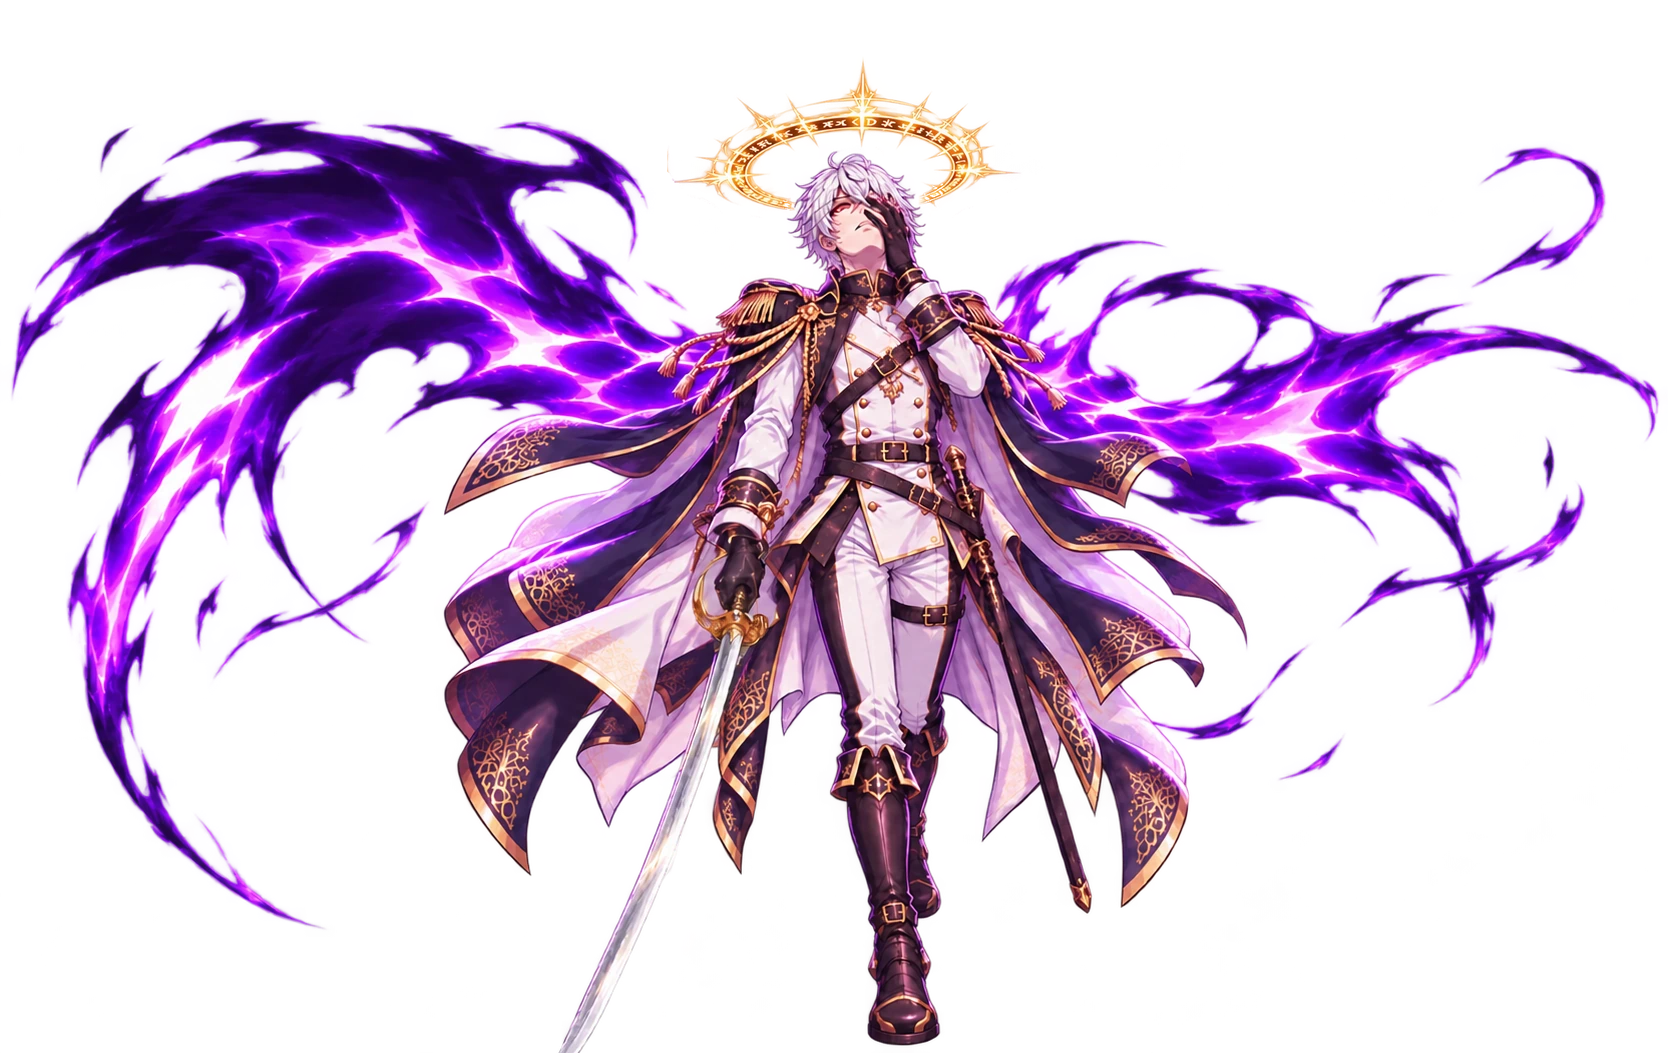
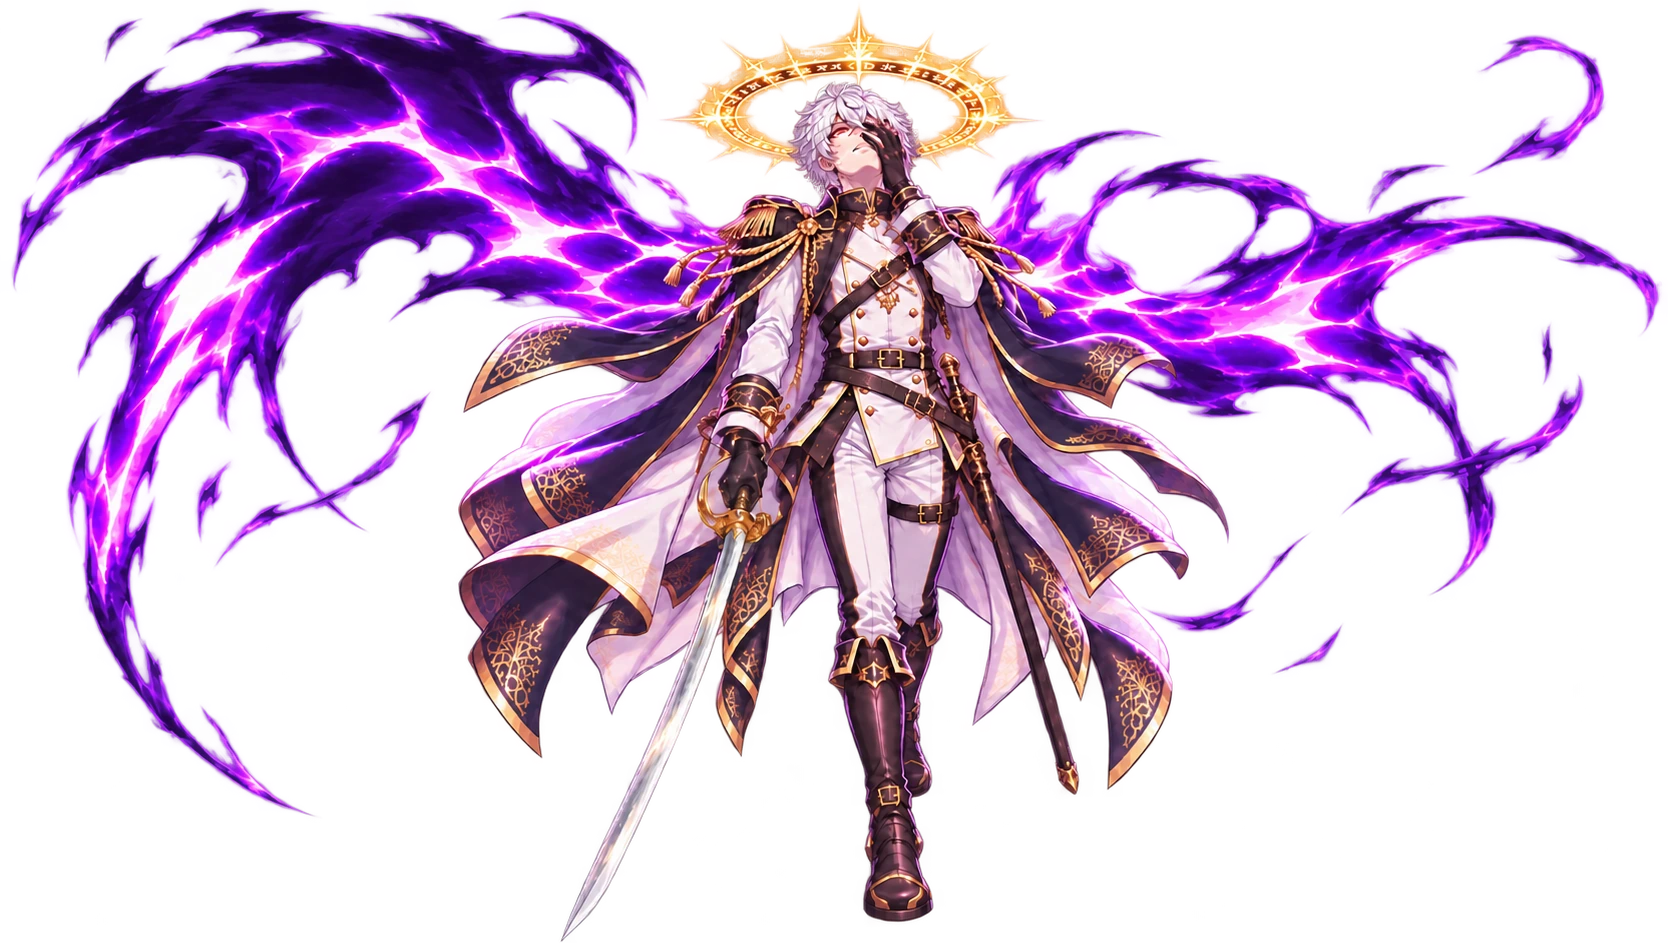
ver -2382 米夏 暴走：法環改由 GPT 加在 Ray 的 SD 版上（取代本機合成）

diff --git a/index.html b/index.html
@@ -16,7 +16,7 @@
 <link rel="apple-touch-icon" href="resources/background/tivot_emblem.png?v=9220f8bb">
 <title>TIVOT</title>
 <!-- 全域鎖直向（真鎖 + 橫向擋板）；classic script，需在版面就緒前掛上 -->
-<script src="orientation.js?v=2381"></script>
+<script src="orientation.js?v=2382"></script>
 <!-- 離線包（ver -2256）：註冊 sw.js；主畫面 App 裡出現「下載離線包」鈕 -->
 <script src="offline.js"></script>
 <!-- ══ 效能探針・計數層（ver -850，Ray：「沒有辦法寫一個偵測程式進去看是什麼
@@ -65,74 +65,74 @@
 <script type="importmap">
 {
   "imports": {
-    "./audio.js": "./audio.js?v=2381",
-    "./config.js": "./config.js?v=2381",
-    "./i18n.js": "./i18n.js?v=2381",
-    "./main.js": "./main.js?v=2381",
-    "./offline.js": "./offline.js?v=2381",
-    "./orientation.js": "./orientation.js?v=2381",
-    "./state.js": "./state.js?v=2381",
-    "./sw.js": "./sw.js?v=2381",
-    "./telemetry.js": "./telemetry.js?v=2381",
-    "./modules/beatpick.js": "./modules/beatpick.js?v=2381",
-    "./modules/blink.js": "./modules/blink.js?v=2381",
-    "./modules/breath.js": "./modules/breath.js?v=2381",
-    "./modules/combat.js": "./modules/combat.js?v=2381",
-    "./modules/defense.js": "./modules/defense.js?v=2381",
-    "./modules/enemy.js": "./modules/enemy.js?v=2381",
-    "./modules/eyefx.js": "./modules/eyefx.js?v=2381",
-    "./modules/gear.js": "./modules/gear.js?v=2381",
-    "./modules/groundShadow.js": "./modules/groundShadow.js?v=2381",
-    "./modules/haptics.js": "./modules/haptics.js?v=2381",
-    "./modules/inn.js": "./modules/inn.js?v=2381",
-    "./modules/inspector.js": "./modules/inspector.js?v=2381",
-    "./modules/loot.js": "./modules/loot.js?v=2381",
-    "./modules/partner.js": "./modules/partner.js?v=2381",
-    "./modules/saint.js": "./modules/saint.js?v=2381",
-    "./modules/sakura.js": "./modules/sakura.js?v=2381",
-    "./modules/save.js": "./modules/save.js?v=2381",
-    "./modules/settings.js": "./modules/settings.js?v=2381",
-    "./modules/story.js": "./modules/story.js?v=2381",
-    "./modules/sway.js": "./modules/sway.js?v=2381",
-    "./modules/tone.js": "./modules/tone.js?v=2381",
-    "./modules/town.js": "./modules/town.js?v=2381",
-    "./modules/transition.js": "./modules/transition.js?v=2381",
-    "./modules/tutorial.js": "./modules/tutorial.js?v=2381",
-    "./modules/weapon.js": "./modules/weapon.js?v=2381",
-    "./script/bg_index.js": "./script/bg_index.js?v=2381",
-    "./script/blink.js": "./script/blink.js?v=2381",
-    "./script/clock.js": "./script/clock.js?v=2381",
-    "./script/enemies.js": "./script/enemies.js?v=2381",
-    "./script/evaluation.js": "./script/evaluation.js?v=2381",
-    "./script/eyefx.js": "./script/eyefx.js?v=2381",
-    "./script/inventory.js": "./script/inventory.js?v=2381",
-    "./script/loadout.js": "./script/loadout.js?v=2381",
-    "./script/mainScript.js": "./script/mainScript.js?v=2381",
-    "./script/progress.js": "./script/progress.js?v=2381",
-    "./script/shopcards.js": "./script/shopcards.js?v=2381",
-    "./script/shopstock.js": "./script/shopstock.js?v=2381",
-    "./script/speakers.js": "./script/speakers.js?v=2381",
-    "./script/sway.js": "./script/sway.js?v=2381",
-    "./script/town.js": "./script/town.js?v=2381",
-    "./script/weapons.js": "./script/weapons.js?v=2381",
-    "./i18n/en.js": "./i18n/en.js?v=2381",
-    "./i18n/es.js": "./i18n/es.js?v=2381",
-    "./i18n/ja.js": "./i18n/ja.js?v=2381",
-    "./i18n/scriptTr.js": "./i18n/scriptTr.js?v=2381",
-    "./i18n/zh.js": "./i18n/zh.js?v=2381",
-    "./i18n/script/es.classic.js": "./i18n/script/es.classic.js?v=2381",
-    "./i18n/script/es.js": "./i18n/script/es.js?v=2381",
-    "./i18n/ui/es.classic.js": "./i18n/ui/es.classic.js?v=2381",
-    "./i18n/ui/es.js": "./i18n/ui/es.js?v=2381"
+    "./audio.js": "./audio.js?v=2382",
+    "./config.js": "./config.js?v=2382",
+    "./i18n.js": "./i18n.js?v=2382",
+    "./main.js": "./main.js?v=2382",
+    "./offline.js": "./offline.js?v=2382",
+    "./orientation.js": "./orientation.js?v=2382",
+    "./state.js": "./state.js?v=2382",
+    "./sw.js": "./sw.js?v=2382",
+    "./telemetry.js": "./telemetry.js?v=2382",
+    "./modules/beatpick.js": "./modules/beatpick.js?v=2382",
+    "./modules/blink.js": "./modules/blink.js?v=2382",
+    "./modules/breath.js": "./modules/breath.js?v=2382",
+    "./modules/combat.js": "./modules/combat.js?v=2382",
+    "./modules/defense.js": "./modules/defense.js?v=2382",
+    "./modules/enemy.js": "./modules/enemy.js?v=2382",
+    "./modules/eyefx.js": "./modules/eyefx.js?v=2382",
+    "./modules/gear.js": "./modules/gear.js?v=2382",
+    "./modules/groundShadow.js": "./modules/groundShadow.js?v=2382",
+    "./modules/haptics.js": "./modules/haptics.js?v=2382",
+    "./modules/inn.js": "./modules/inn.js?v=2382",
+    "./modules/inspector.js": "./modules/inspector.js?v=2382",
+    "./modules/loot.js": "./modules/loot.js?v=2382",
+    "./modules/partner.js": "./modules/partner.js?v=2382",
+    "./modules/saint.js": "./modules/saint.js?v=2382",
+    "./modules/sakura.js": "./modules/sakura.js?v=2382",
+    "./modules/save.js": "./modules/save.js?v=2382",
+    "./modules/settings.js": "./modules/settings.js?v=2382",
+    "./modules/story.js": "./modules/story.js?v=2382",
+    "./modules/sway.js": "./modules/sway.js?v=2382",
+    "./modules/tone.js": "./modules/tone.js?v=2382",
+    "./modules/town.js": "./modules/town.js?v=2382",
+    "./modules/transition.js": "./modules/transition.js?v=2382",
+    "./modules/tutorial.js": "./modules/tutorial.js?v=2382",
+    "./modules/weapon.js": "./modules/weapon.js?v=2382",
+    "./script/bg_index.js": "./script/bg_index.js?v=2382",
+    "./script/blink.js": "./script/blink.js?v=2382",
+    "./script/clock.js": "./script/clock.js?v=2382",
+    "./script/enemies.js": "./script/enemies.js?v=2382",
+    "./script/evaluation.js": "./script/evaluation.js?v=2382",
+    "./script/eyefx.js": "./script/eyefx.js?v=2382",
+    "./script/inventory.js": "./script/inventory.js?v=2382",
+    "./script/loadout.js": "./script/loadout.js?v=2382",
+    "./script/mainScript.js": "./script/mainScript.js?v=2382",
+    "./script/progress.js": "./script/progress.js?v=2382",
+    "./script/shopcards.js": "./script/shopcards.js?v=2382",
+    "./script/shopstock.js": "./script/shopstock.js?v=2382",
+    "./script/speakers.js": "./script/speakers.js?v=2382",
+    "./script/sway.js": "./script/sway.js?v=2382",
+    "./script/town.js": "./script/town.js?v=2382",
+    "./script/weapons.js": "./script/weapons.js?v=2382",
+    "./i18n/en.js": "./i18n/en.js?v=2382",
+    "./i18n/es.js": "./i18n/es.js?v=2382",
+    "./i18n/ja.js": "./i18n/ja.js?v=2382",
+    "./i18n/scriptTr.js": "./i18n/scriptTr.js?v=2382",
+    "./i18n/zh.js": "./i18n/zh.js?v=2382",
+    "./i18n/script/es.classic.js": "./i18n/script/es.classic.js?v=2382",
+    "./i18n/script/es.js": "./i18n/script/es.js?v=2382",
+    "./i18n/ui/es.classic.js": "./i18n/ui/es.classic.js?v=2382",
+    "./i18n/ui/es.js": "./i18n/ui/es.js?v=2382"
   }
 }
 </script>
 <!-- BUST:END -->
-<link rel="stylesheet" href="style.css?v=2381">
+<link rel="stylesheet" href="style.css?v=2382">
   <!-- 拾得道具／道具欄／商店／懸賞榜（ver -380 抽出，飛行頁共用同一份）。
        ⚠ `data-lootsheet` 是給 `modules/loot.js` 認的：它看到已經掛過就不再掛一次。
          飛行頁沒有這一行，由那支模組自己掛上去。 -->
-  <link rel="stylesheet" href="css/lootsheet.css?v=2381" data-lootsheet="1">
+  <link rel="stylesheet" href="css/lootsheet.css?v=2382" data-lootsheet="1">
 <!-- 主畫面 App（standalone）偵測：首繪前在 <html> 蓋 .standalone，
      供 CSS 修 iOS 26 版面視窗少算頂部安全區高度（底部露黑帶）的問題 -->
 <script>
@@ -778,6 +778,6 @@
      ⚠ src 是**按下去才給**的（lazy）：不然每次開機都要多載一整個飛行頁。 -->
 <iframe id="flightFrame" title="飛行"></iframe>
 
-<script type="module" src="main.js?v=2381"></script>
+<script type="module" src="main.js?v=2382"></script>
 </body>
 </html>

diff --git a/flight/index.html b/flight/index.html
@@ -3,7 +3,7 @@
 <head>
 <meta charset="utf-8">
 <meta name="viewport" content="width=device-width,initial-scale=1,maximum-scale=1,user-scalable=no,viewport-fit=cover">
-<script src="../orientation.js?v=2381"></script>
+<script src="../orientation.js?v=2382"></script>
 <script>
 /* 介面字譯文（ver -1909）：這一頁是非模組，程式一開跑就讀字串 —— 所以譯文表要**同步**載
    （document.write，只在選了有譯文的語言時）。語言判定與 i18n.js 的 LANG 同一套
@@ -11,7 +11,7 @@
 (function(){
   var l=null; try{ l=localStorage.getItem('tivot.lang'); }catch(e){}
   if(!l){ try{ var n=(navigator.languages&&navigator.languages[0])||navigator.language||''; if(String(n).toLowerCase().indexOf('es')===0) l='es'; }catch(e){} }
-  if(['es'].indexOf(l)>=0) document.write('<script src="../i18n/script/'+l+'.classic.js?v=2381"><\/script><script src="../i18n/ui/'+l+'.classic.js?v=2381"><\/script>');
+  if(['es'].indexOf(l)>=0) document.write('<script src="../i18n/script/'+l+'.classic.js?v=2382"><\/script><script src="../i18n/ui/'+l+'.classic.js?v=2382"><\/script>');
 })();
 function i18nT(s){ var t=window.__TIVOT_TR; return (t && typeof s==='string' && t[s]!=null) ? t[s] : s; }
 document.addEventListener('DOMContentLoaded', function(){
@@ -237,7 +237,7 @@ document.addEventListener('DOMContentLoaded', function(){
   /* ver -2217：門圖含楣（kerberos_gate，＝主遊戲同一張）—— 底圖往上延伸到楣的上緣（--fk-gate-top，負值，layoutFKerb 寫）。
      畫在 ::before：門的子元素（紋章／箭／鉚釘）排在它之後，自然疊在上面。 */
   #fkerbDoor::before{content:'';position:absolute;left:0;right:0;top:var(--fk-gate-top,0px);bottom:0;
-    background-image:url('../resources/vfx/kerberos_gate.webp?v=2381');
+    background-image:url('../resources/vfx/kerberos_gate.webp?v=2382');
     background-repeat:no-repeat;background-size:100% 100%;pointer-events:none;}
   #fkerb.rise #fkerbDoor{transform:translateY(calc(var(--fkerb-rise,0px) * -1));}
   /* 楣與其餘零件：全部是門的子元素＝同一剛體，門上推它們跟著上去
@@ -260,8 +260,8 @@ document.addEventListener('DOMContentLoaded', function(){
       radial-gradient(circle at 50% 22%, rgba(0,0,0,.72) 40%, rgba(0,0,0,0) 78%);
     box-shadow:inset 0 3px 7px rgba(0,0,0,.85);}
   #fkerbGear .fkg-shine{position:absolute;inset:0;mix-blend-mode:screen;opacity:.8;
-    -webkit-mask-image:url("../resources/vfx/kerberos_gear.webp?v=2381");
-    mask-image:url("../resources/vfx/kerberos_gear.webp?v=2381");
+    -webkit-mask-image:url("../resources/vfx/kerberos_gear.webp?v=2382");
+    mask-image:url("../resources/vfx/kerberos_gear.webp?v=2382");
     -webkit-mask-size:100% 100%;mask-size:100% 100%;
     -webkit-mask-repeat:no-repeat;mask-repeat:no-repeat;
     background:linear-gradient(114deg,
@@ -281,8 +281,8 @@ document.addEventListener('DOMContentLoaded', function(){
     filter:drop-shadow(0 3px 7px rgba(0,0,0,.9)) drop-shadow(0 0 2px rgba(0,0,0,.8));}
   #fkerbPend .fkp-shine{position:absolute;inset:0;pointer-events:none;
     mix-blend-mode:screen;opacity:.85;
-    -webkit-mask-image:url("../resources/vfx/kerberos_pendant.webp?v=2381");
-    mask-image:url("../resources/vfx/kerberos_pendant.webp?v=2381");
+    -webkit-mask-image:url("../resources/vfx/kerberos_pendant.webp?v=2382");
+    mask-image:url("../resources/vfx/kerberos_pendant.webp?v=2382");
     -webkit-mask-size:100% 100%;mask-size:100% 100%;
     -webkit-mask-repeat:no-repeat;mask-repeat:no-repeat;
     background:linear-gradient(114deg,
@@ -647,23 +647,23 @@ img:not([src]), img[src=""], img.img-broken{visibility:hidden !important;}
        ⚠ 要有，否則交棒那一格齒輪會憑空冒出來（同吊墜的理由）。
        ⚠ 排在 `.fk-plate` 之前 ＝ 團徽之下、槍棺之上。 -->
   <div id="fkerbGear"><i class="fkg-well"></i>
-    <img src="../resources/vfx/kerberos_gear.webp?v=2381" alt=""><i class="fkg-shine"></i></div>
+    <img src="../resources/vfx/kerberos_gear.webp?v=2382" alt=""><i class="fkg-shine"></i></div>
   <div id="fkerbGearSm"><i class="fkg-well"></i>
-    <img src="../resources/vfx/kerberos_gear.webp?v=2381" alt=""></div>
-  <img class="fk-plate" src="../resources/vfx/kerberos_plate.webp?v=2381" alt="">
-  <img class="fk-arrow n" src="../resources/vfx/kerberos_arrow.webp?v=2381" alt="">
-  <img class="fk-arrow e" src="../resources/vfx/kerberos_arrow.webp?v=2381" alt="">
-  <img class="fk-arrow s" src="../resources/vfx/kerberos_arrow.webp?v=2381" alt="">
-  <img class="fk-arrow w" src="../resources/vfx/kerberos_arrow.webp?v=2381" alt="">
-  <img class="fk-rivet r10" src="../resources/vfx/kerberos_rivet.webp?v=2381" alt="">
-  <img class="fk-rivet r2"  src="../resources/vfx/kerberos_rivet.webp?v=2381" alt="">
-  <img class="fk-rivet r4"  src="../resources/vfx/kerberos_rivet.webp?v=2381" alt="">
-  <img class="fk-rivet r8"  src="../resources/vfx/kerberos_rivet.webp?v=2381" alt="">
+    <img src="../resources/vfx/kerberos_gear.webp?v=2382" alt=""></div>
+  <img class="fk-plate" src="../resources/vfx/kerberos_plate.webp?v=2382" alt="">
+  <img class="fk-arrow n" src="../resources/vfx/kerberos_arrow.webp?v=2382" alt="">
+  <img class="fk-arrow e" src="../resources/vfx/kerberos_arrow.webp?v=2382" alt="">
+  <img class="fk-arrow s" src="../resources/vfx/kerberos_arrow.webp?v=2382" alt="">
+  <img class="fk-arrow w" src="../resources/vfx/kerberos_arrow.webp?v=2382" alt="">
+  <img class="fk-rivet r10" src="../resources/vfx/kerberos_rivet.webp?v=2382" alt="">
+  <img class="fk-rivet r2"  src="../resources/vfx/kerberos_rivet.webp?v=2382" alt="">
+  <img class="fk-rivet r4"  src="../resources/vfx/kerberos_rivet.webp?v=2382" alt="">
+  <img class="fk-rivet r8"  src="../resources/vfx/kerberos_rivet.webp?v=2382" alt="">
   <!-- 吊墜（ver -412）：與主遊戲同一套（見 index.html 的 #kerbPend 與 style.css）。
        ⚠ 這一頁**必須也有** —— 遭遇時門是在這裡推上來的，交棒之後主遊戲那一半才接手；
          只有一邊掛吊墜的話，交棒那一格會憑空多出一個東西。 -->
   <div id="fkerbPend"><div class="fkp-swing"><div class="fkp-idle">
-    <img src="../resources/vfx/kerberos_pendant.webp?v=2381" alt=""><i class="fkp-shine"></i>
+    <img src="../resources/vfx/kerberos_pendant.webp?v=2382" alt=""><i class="fkp-shine"></i>
   </div></div></div>
 </div></div>
 <div id="boot">
@@ -685,11 +685,11 @@ img:not([src]), img[src=""], img.img-broken{visibility:hidden !important;}
   <div id="bMsg"><small id="bootMsg"></small></div>
 </div>
 
-<script src="settlement.js?v=2381"></script>
+<script src="settlement.js?v=2382"></script>
 <!-- 閒聊對話的**內容**獨立成一支：方便加台詞、加觸發條件而不必碰引擎。
      ⚠ 一般 <script>（非 module）→ TALKS / talkPeriod / talkPick 是全域，
        而且會在下面這段 inline 之前執行完，所以 inline 內可以直接用。 -->
-<script src="talks.js?v=2381"></script>
+<script src="talks.js?v=2382"></script>
 <script>
 /* 破圖框一律不畫（ver -1881，同主頁 main.js 那一支，這一頁是另一個 document）。 */
 document.addEventListener('error', e=>{ const t=e.target; if(t && t.tagName==='IMG') t.classList.add('img-broken'); }, true);
@@ -765,7 +765,7 @@ const COLOR_URL  = 'silvermoon_terrain.png?v=b18827be'  + TERRAIN_V;
    以前是手寫的，於是從 -911 起就沒有人記得動它 —— 而 HUD 上的版本號正是 Ray
    在手機上確認「我現在跑的是哪一版」的唯一依據（鐵律 7：一個量一個計算點；
    ver -626：版本號不動就等於沒有版本號）。**不要手改。** */
-const FLIGHT_VER = 'ver -2381';
+const FLIGHT_VER = 'ver -2382';
 const MAP_SCALE  = /[?&]world=cave/.test(location.search) ? 10 : 20;   // 地底的圖加密成 1536²（ver -2369，build_cave.py 的 SUPER）：一格 10 世界單位，世界大小不變
 const INV_SCALE  = 1/MAP_SCALE;
 const PEAK_SCALE = 520;   // 高度圖 255 對應的世界高度（越大山越陡）

diff --git a/script/speakers.js b/script/speakers.js
@@ -1657,7 +1657,7 @@ export const ART = {
     draw:       { src:'resources/si/misha_si_draw.webp?v=68b1b653', top:6, bot:1534, fx:0.434 },   // ver -1728：Ray 新出的拔刀圖（姿勢換了，取景重量；美術 09-25）
     salute:     { src:'resources/si/misha_si_salute.webp', top:9, bot:1520, fx:0.447 },
     side:       { src:'resources/si/misha_si_side.webp', top:16, bot:1512, fx:0.37 },
-    '暴走':     { fxShift:0, blink:'off', rescale:true, src:'resources/si/misha_si_coverfaceni.webp?v=7d3364fb', top:152, bot:1044, fx:0.516 },   // ver -2381（Ray 11-03）：Ray 自己 SD 修臉的橫幅版（紫色火焰之翼、黃銅 D 形護手軍刀），GPT 只做去背；法環從 -2380 版摘出、縮 0.70 貼在人後（畫布往上加 110 → 1668×1053）；top/bot 量人不量翼與法環
+    '暴走':     { fxShift:0, blink:'off', rescale:true, src:'resources/si/misha_si_coverfaceni.webp?v=d2e24e64', top:82, bot:921, fx:0.514 },   // ver -2382（Ray 11-03）：Ray 自己 SD 修臉的橫幅版（紫色火焰之翼、黃銅 D 形護手軍刀），GPT 去背後再由 GPT 加金色符文天使環（Ray：本機合成不行）；1668×943；top/bot 量人不量翼與法環
     '抓臉閉嘴': { blink:'off', src:'resources/si/misha_si_coverfaceshut.webp?v=58da9959', top:8, bot:1512, fx:0.470 },   // ver -2356（Ray：「咬牙 閉嘴兩張都收」）：同抓臉（-2357 更陰暗），嘴緊閉不露牙
     '抓臉':     { blink:'off', src:'resources/si/misha_si_coverface.webp?v=bcf9a94c', top:0, bot:1525, fx:0.535 },   // ver -2377（Ray 11-03 交新圖）：左手戴黑手套扣臉、指縫露冷眼、咬牙、右手持軍刀、長鞘掛左；以下為舊版說明 —— ver -2356（Ray）：front 為底；森冷銳利、咬牙、臉上半部壓陰影、冷光眼（-2357 更陰暗）；左手插髮扣臉、銀髮穿過指縫、冷眼從指縫露出；右手持畜生道長刀、長鞘掛左腰
     wound:      { fxShift:0, blink:'off', src:'resources/si/misha_si_wound.webp?v=3a49219d', top:34, bot:1499, fx:0.403 },

diff --git a/config.js b/config.js
@@ -87,7 +87,7 @@ export const HITFX = {
  *     以為是快取卡住 —— 版本號不動就等於沒有版本號）。
  *  ⚠ 它同時是**暖開機戳記的鑰匙**（main.js 的 `WARM_BOOT`）：版本一變，
  *    上一版的戳記就失效 → 下一次開機重跑完整讀取。那正是改版後該有的行為。 */
-export const VERSION = 'ver 2026.11.03-2381';
+export const VERSION = 'ver 2026.11.03-2382';
 
 /* ══ 空中怪 16 隻的戰鬥卡（ver -2268）══ 每一隻一張 `flight_<鍵>`（飛行頁 `battleIdFor` 的命名），
    內容同羽蛇那一場：船戰、艦載武器音、連射間隔 180ms。⚠ 這份鍵清單在三處：這裡／
@@ -6154,7 +6154,7 @@ export const ASSET_VER = {
   'misha_si_closeopen_closed': '658c29c2',
   'misha_si_closeopen_half': '0379d48b',
   'misha_si_coverface': 'bcf9a94c',
-  'misha_si_coverfaceni': '7d3364fb',
+  'misha_si_coverfaceni': 'd2e24e64',
   'misha_si_coverfaceshut': '58da9959',
   'misha_si_draw': '68b1b653',
   'misha_si_draw_closed': 'ff69810f',

diff --git a/modules/story.js b/modules/story.js
@@ -3588,7 +3588,7 @@ const KERB_DIR='resources/vfx/';
    cache-buster（§5：檔名沒變、內容變了，瀏覽器照樣拿舊的那一份，而症狀只是
    「看起來沒變」）。版本號由 `tools/bust.py` 同步，路徑只由 `kerbUrl()` 組（鐵律 8）——
    飛行頁那一半是另一個 document，各有一份，改一邊要改另一邊。 */
-const KERB_V='?v=2381';
+const KERB_V='?v=2382';
 const kerbUrl=n=>KERB_DIR+n+'.webp'+KERB_V;
 /* 門的圖（ver -2218）：**每一道門都要先載完**（劇情讀取頁 `preloadStory`、城鎮那道 `loadScene`）——
    Ray：「讀圖的時候先跑槍棺出來才讀楣」「往上推的時候楣會消失」：合成後的 `kerberos_gate`（門＋楣）
